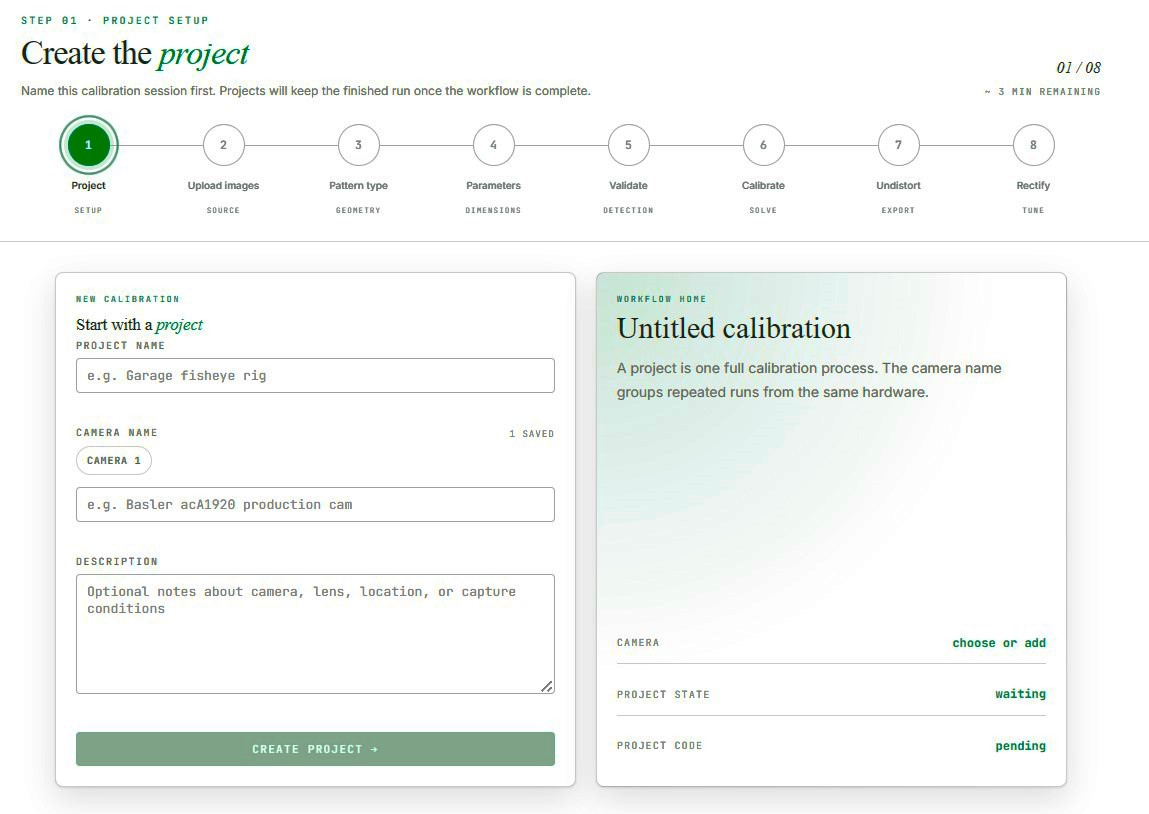
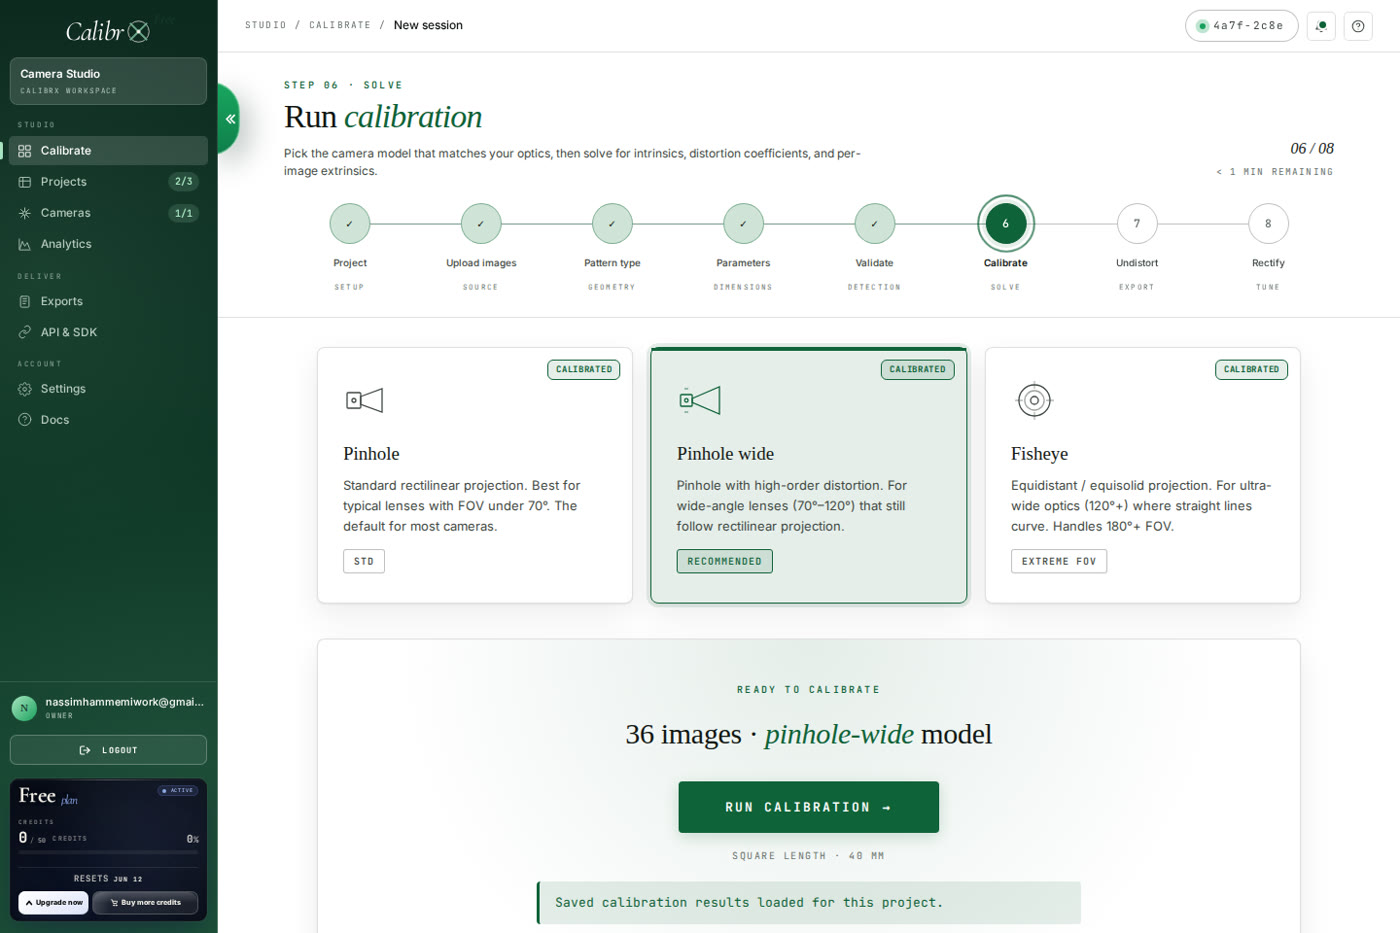
Swap Hockey and CalibrX hero images
Hockey: replace the LinkedIn embed with the analytics dashboard
(team heatmaps + live match view + 2D tactical map); keep the
"View the demo" LinkedIn link. Also swap the hockey gallery card off
its gradient placeholder onto the real image.

CalibrX: replace the preview with the cleaner Studio calibration
(step 06) UI — updates the case page, gallery, and homepage cards
since they share calibrx-preview.jpg.

diff --git a/projects.html b/projects.html
@@ -159,16 +159,7 @@
   .padel-card{--preview:url("padel-preview.jpg");}
   .agsolaire-card{--preview:url("agsolaire-preview.jpg");}
   .pathology-card{--preview:url("pathology-preview.jpg");}
-  .hockey-card{--preview:
-    radial-gradient(circle at 28% 38%, #ffffff 0 4px, transparent 5px),
-    radial-gradient(circle at 44% 62%, #0d0d0d 0 4px, transparent 5px),
-    radial-gradient(circle at 63% 33%, #43a047 0 4px, transparent 5px),
-    radial-gradient(circle at 78% 58%, #1e88e5 0 4px, transparent 5px),
-    radial-gradient(circle at 54% 78%, #fb8c00 0 4px, transparent 5px),
-    linear-gradient(90deg, transparent 0 49.6%, rgba(255,255,255,.65) 49.6% 50.4%, transparent 50.4%),
-    radial-gradient(circle at 50% 50%, transparent 0 26px, rgba(255,255,255,.5) 26px 27px, transparent 28px),
-    linear-gradient(135deg,#4d7fae,#3a6390);
-  }
+  .hockey-card{--preview:url("hockey-preview.jpg");}
   .moving-stopped-card{--preview:url("Both_classes_Relative.gif");}
 
   .card-body{

diff --git a/project-hockey.html b/project-hockey.html
@@ -273,12 +273,8 @@
           </span>
         </div>
       </div>
-      <div class="case-media" aria-label="Hockey Vision demo — LinkedIn video">
-        <iframe
-          src="https://www.linkedin.com/embed/feed/update/urn:li:ugcPost:7304668879119659008?compact=1"
-          title="Hockey Vision demo video (LinkedIn)"
-          allowfullscreen>
-        </iframe>
+      <div class="case-media" aria-label="Hockey Vision analytics dashboard">
+        <img src="hockey-preview.jpg" alt="Hockey Vision: per-team distribution heatmaps, live match view, and 2D tactical map">
       </div>
     </header>
 